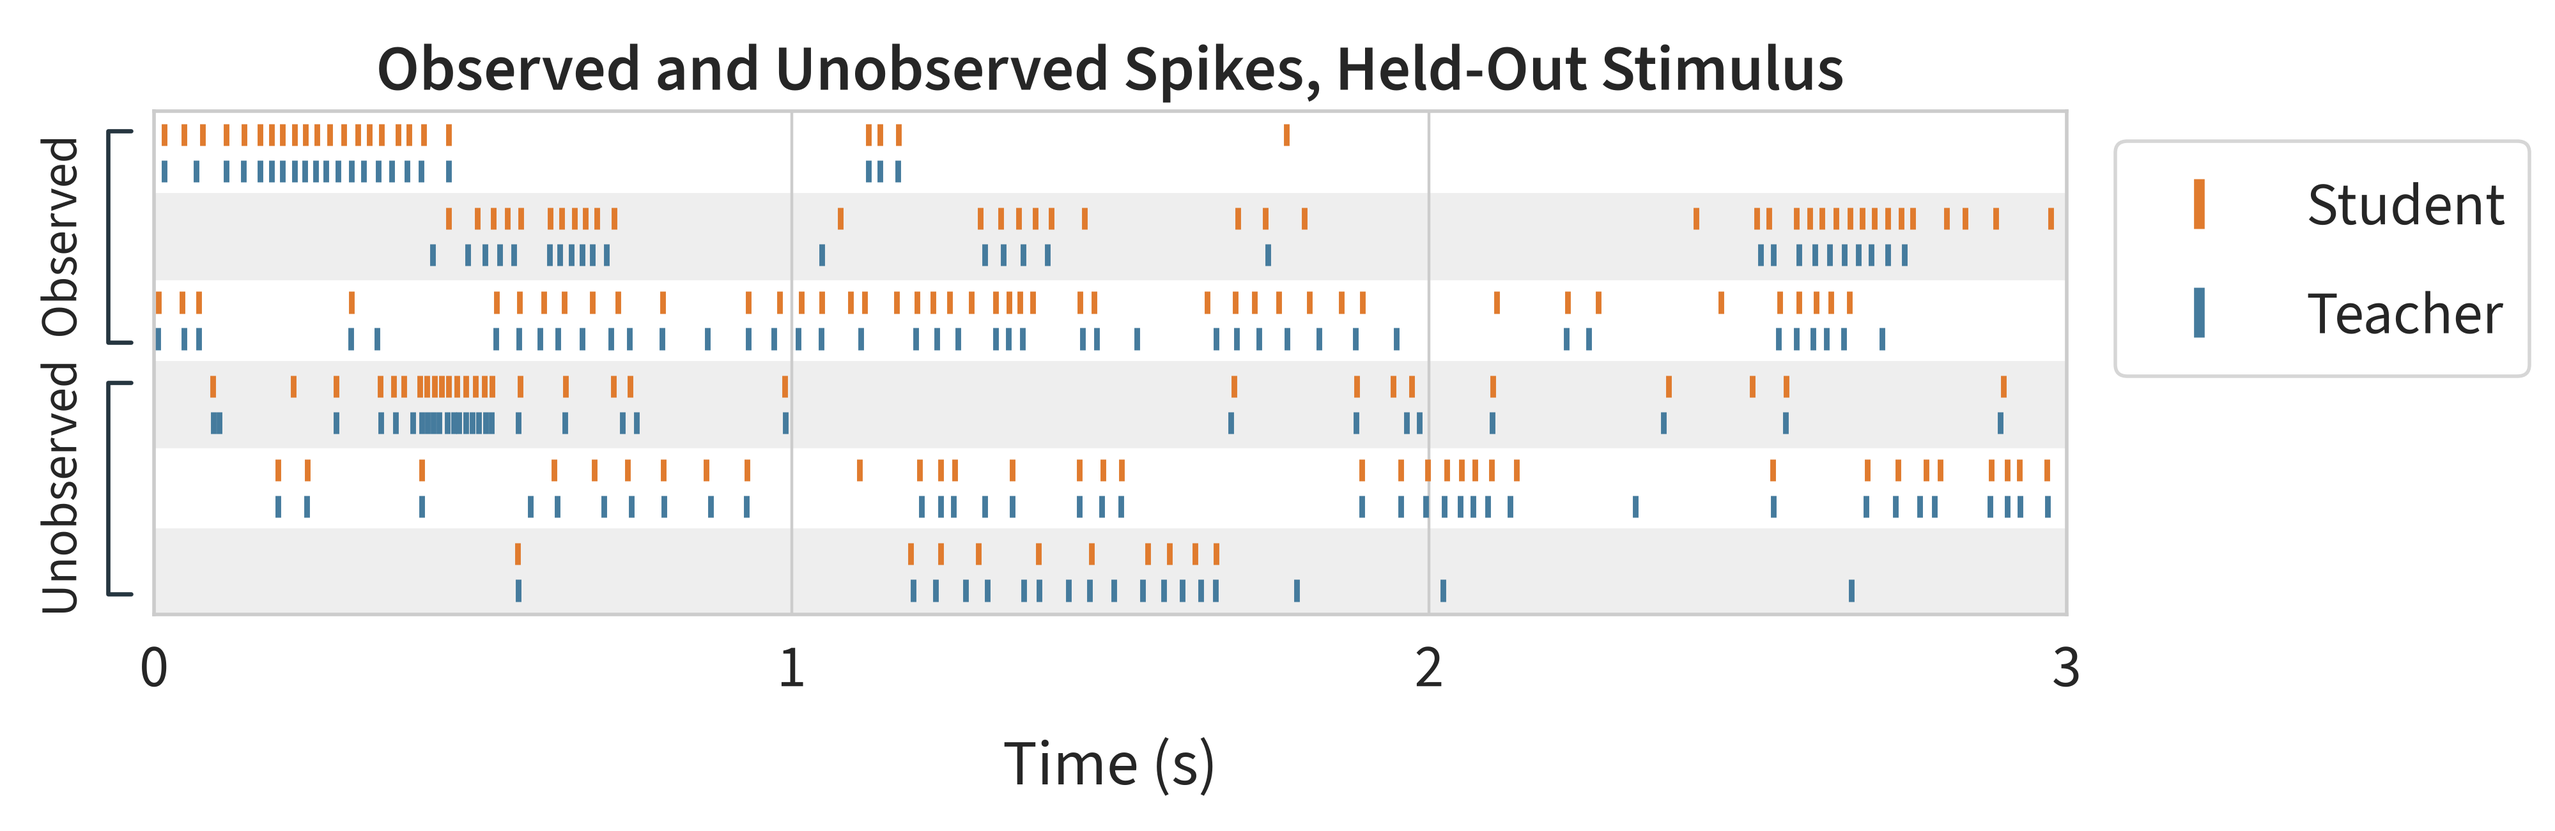
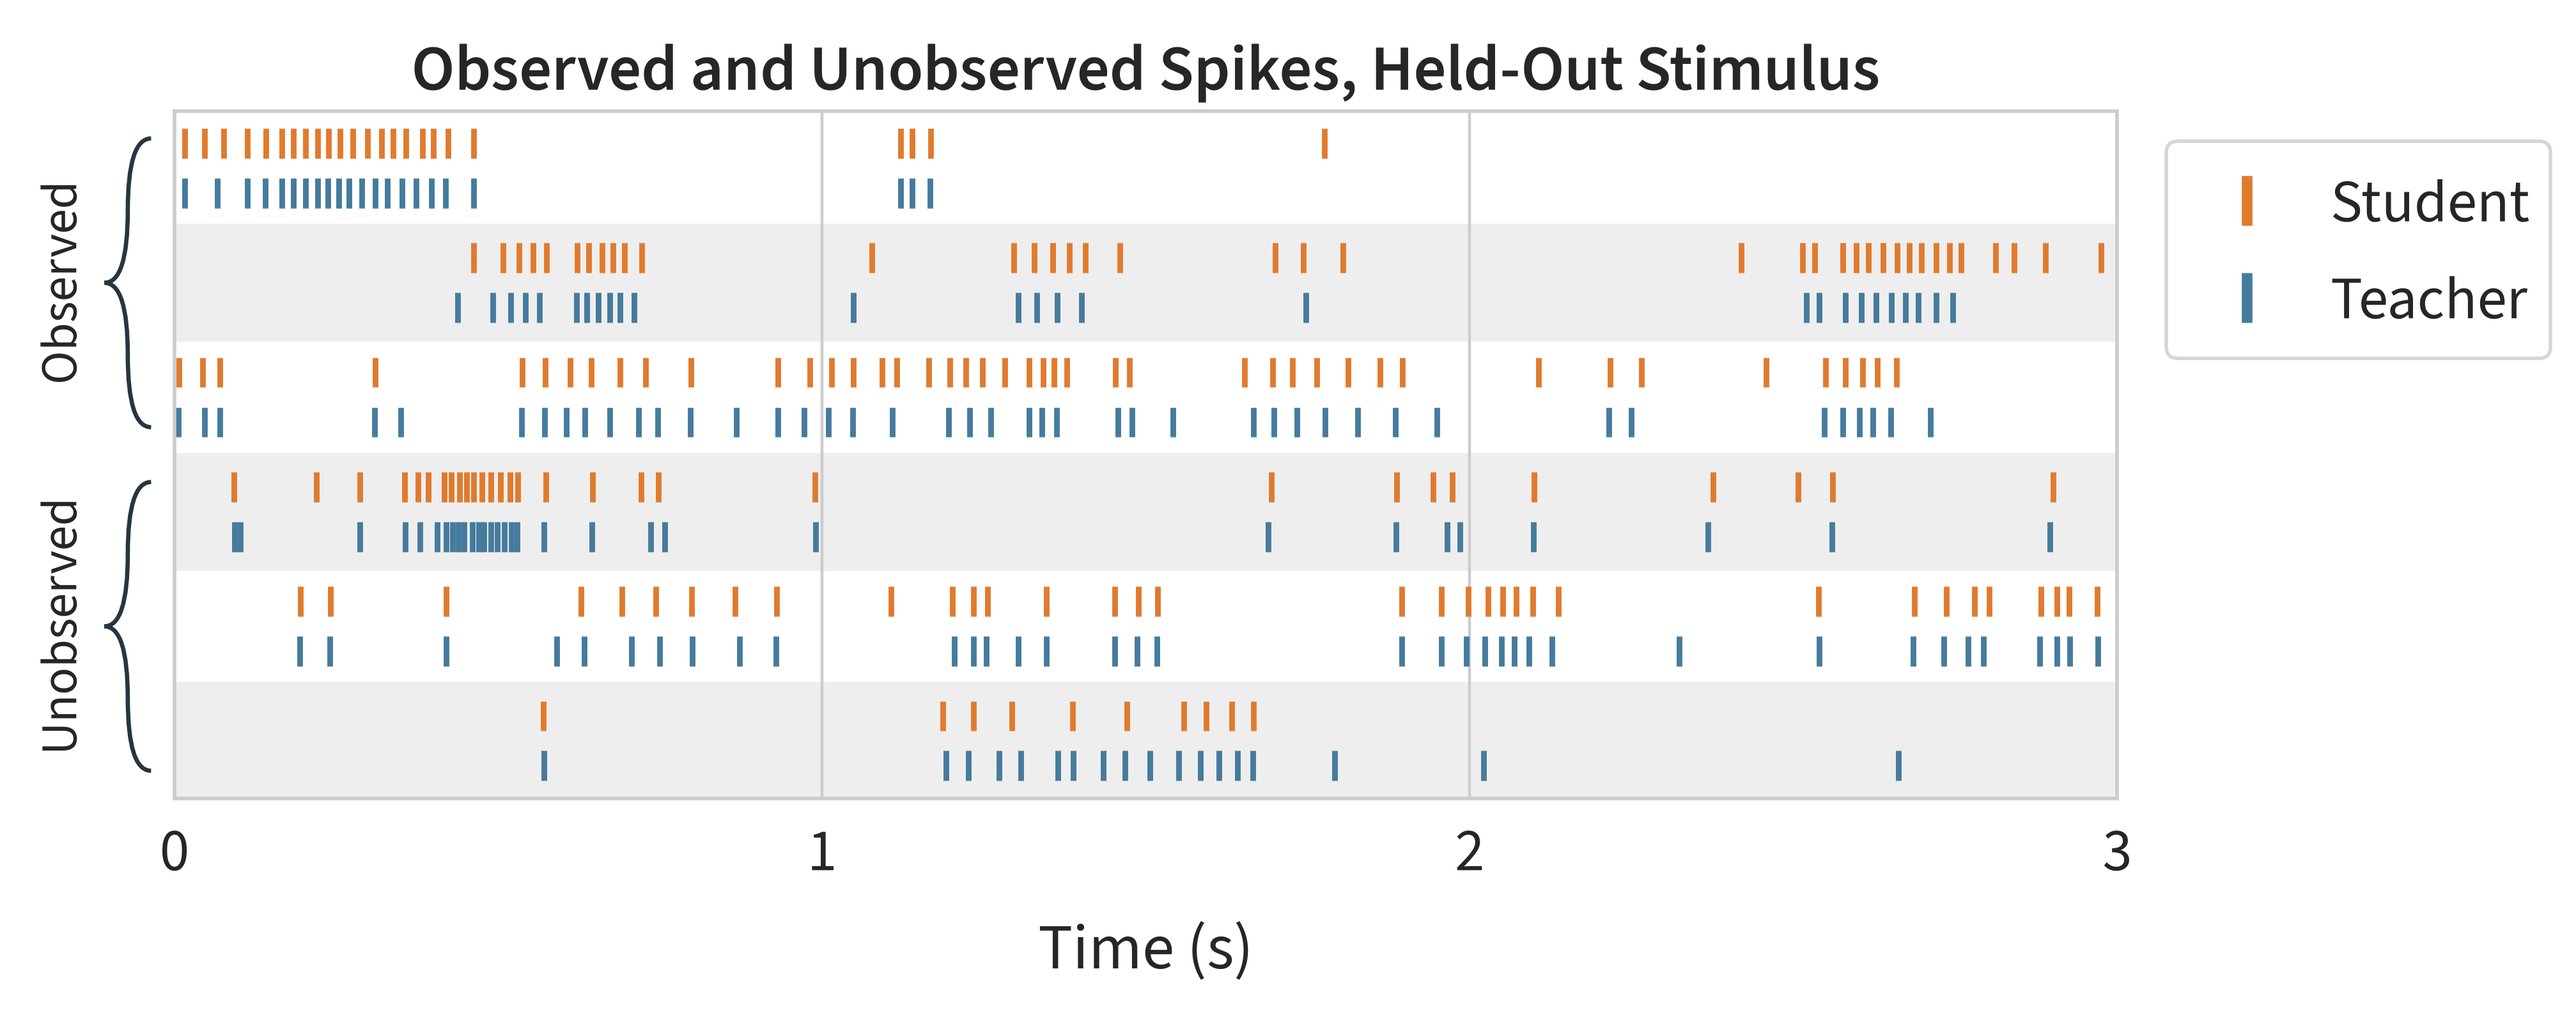
:art: Curly braces on the raster groups, tighter legend, more room per row

diff --git a/common/style.py b/common/style.py
@@ -23,6 +23,8 @@ from connectome_snns.visualization import (
 )
 from matplotlib import font_manager as fm
 from matplotlib.lines import Line2D
+from matplotlib.patches import PathPatch
+from matplotlib.path import Path as Path_
 from matplotlib.ticker import MultipleLocator
 from matplotlib.transforms import blended_transform_factory
 
@@ -312,17 +314,44 @@ def group_brackets(ax, ticks, x=-0.012, width=0.012):
     for label, ys in runs:
         if not label:
             continue
-        low, high = min(ys), max(ys)
-        ax.plot(
-            [x, x - width, x - width, x],
-            [low - 0.6, low - 0.6, high + 0.6, high + 0.6],
-            transform=transform,
-            color=INK,
-            linewidth=1.2,
-            clip_on=False,
+        low, high = min(ys) - 0.6, max(ys) + 0.6
+        middle = (low + high) / 2
+        # A curly brace: two quadratic Beziers per half, meeting at a point that reaches
+        # further left than the arms. Square brackets read as heavy at this size.
+        vertices = [
+            (x, low),
+            (x - width, low),
+            (x - width, (low + middle) / 2),
+            (x - width, middle),
+            (x - 2 * width, middle),
+            (x - width, middle),
+            (x - width, (middle + high) / 2),
+            (x - width, high),
+            (x, high),
+        ]
+        codes = [
+            Path_.MOVETO,
+            Path_.CURVE3,
+            Path_.CURVE3,
+            Path_.CURVE3,
+            Path_.CURVE3,
+            Path_.CURVE3,
+            Path_.CURVE3,
+            Path_.CURVE3,
+            Path_.CURVE3,
+        ]
+        ax.add_patch(
+            PathPatch(
+                Path_(vertices, codes),
+                transform=transform,
+                facecolor="none",
+                edgecolor=INK,
+                linewidth=1.2,
+                clip_on=False,
+            )
         )
         ax.text(
-            x - width - 0.008,
+            x - 2 * width - 0.006,
             (low + high) / 2,
             label,
             transform=transform,
@@ -401,6 +430,9 @@ def spike_raster(ax, spikes, neurons, duration_s, labels):
         ],
         loc="upper left",
         bbox_to_anchor=(1.01, 1.0),
+        borderpad=0.35,
+        labelspacing=0.3,
+        handletextpad=0.4,
         frameon=True,
     )
 

diff --git a/fig01-full-reconstruction/figures.py b/fig01-full-reconstruction/figures.py
@@ -87,7 +87,8 @@ def raster(spikes):
         .drop_duplicates()
         .sort_values(["observed", "neuron_id"], ascending=[False, True])
     )
-    fig, ax = plt.subplots(figsize=WIDE)
+    # 1.2x WIDE's height: six rows of spikes need room to breathe.
+    fig, ax = plt.subplots(figsize=(WIDE[0], WIDE[1] * 1.2))
     spike_raster(
         ax,
         spikes[spikes["time_s"] <= RASTER_SECONDS],
